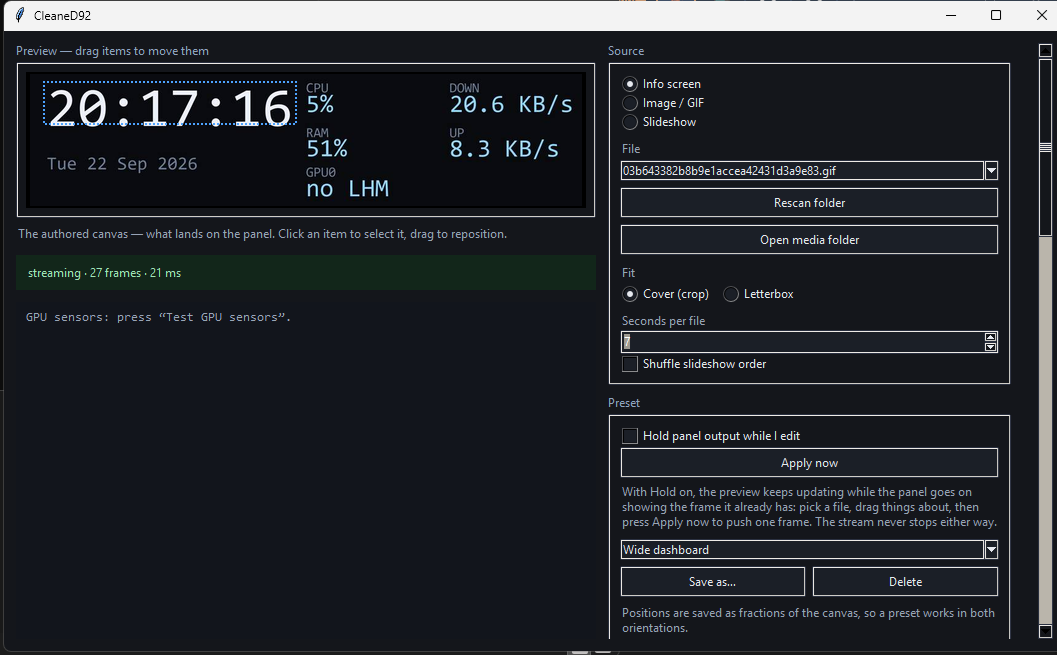
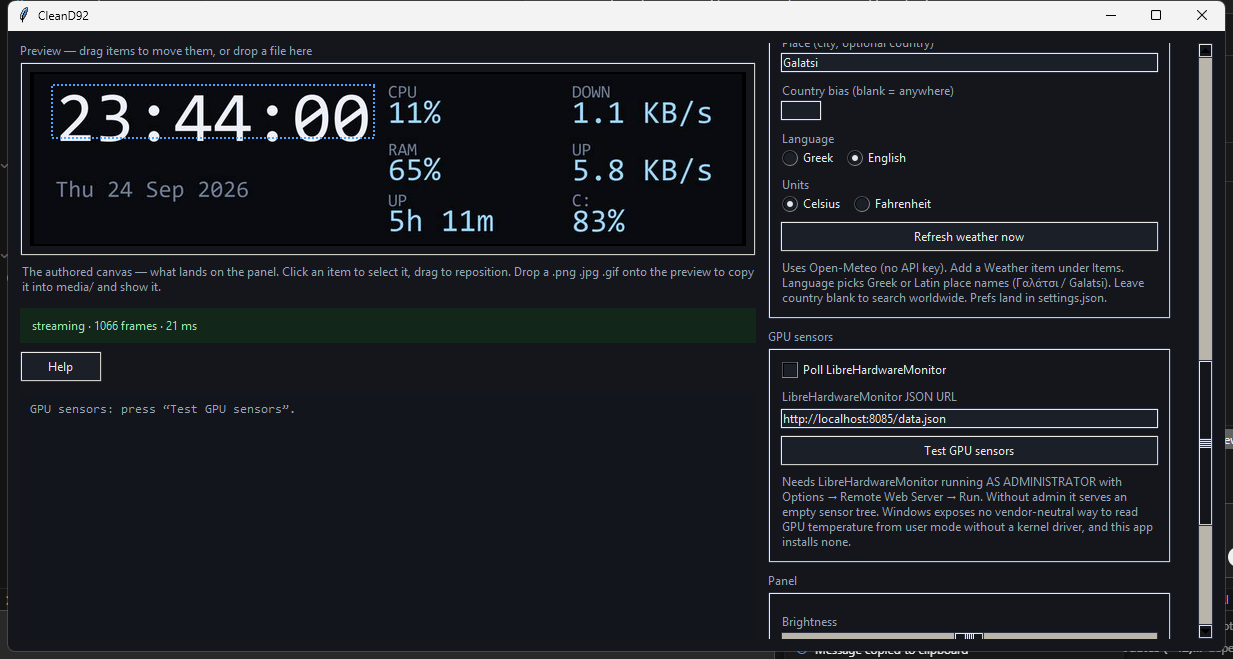
Tune LHM matching from a live sensor tree and refresh the docs.
Prefer GPU Core and CPU Package, keep distinct disk labels, document weather and world clocks, and replace the README screenshot.

Changed region(s): [[0.0, 0.0, 1.0, 1.0], [0.0, 0.6107, 0.2498, 0.6412], [0.5307, 0.9771, 0.5932, 1.0]]

diff --git a/d92_panel.py b/d92_panel.py
@@ -49,6 +49,7 @@ import io
 import json
 import os
 import random
+import re
 import sys
 import threading
 import time
@@ -558,6 +559,21 @@ def shorten(name, limit=16):
     return name[:limit].strip()
 
 
+def shorten_disk(name, limit=14):
+    """Keep model tokens that distinguish drives (980 PRO vs 840 EVO).
+
+    Verified against a live LHM tree where four Samsungs otherwise all
+    collapsed to 'Samsung SS' under the generic 10-char shorten."""
+    text = name or ""
+    for prefix in ("Samsung SSD ", "Samsung HDD ", "Samsung ",
+                   "WDC ", "WD ", "Crucial ", "Kingston ", "NVMe "):
+        if text.startswith(prefix):
+            text = text[len(prefix):]
+            break
+    text = re.sub(r"\s+\d+\s*(TB|GB)\s*$", "", text, flags=re.IGNORECASE)
+    return text[:limit].strip() or shorten(name, limit)
+
+
 def fetch_lhm(url):
     """Read sensors from a running LibreHardwareMonitor. BLOCKING.
 
@@ -629,9 +645,15 @@ def fetch_lhm(url):
                 # Prefer GPU Core % over the many D3D engine counters LHM lists.
                 load = pick(found, "%", ("gpu core", "core load", "d3d 3d",
                                           "3d", "load", "usage"))
-                temp = pick(found, "\u00b0", ("hot spot", "hotspot", "gpu core",
-                                              "core", "edge", "temperature"),
-                            reject=("warning", "critical", "limit"))
+                # Core / edge before hot spot -- the strip's single GPU temp
+                # should match the conventional "GPU Temperature" people know
+                # from HWInfo; hotspot stays as fallback (AMD junction).
+                # Live tree (RX 7700 XT): GPU Core, GPU Memory, GPU Hot Spot.
+                # Intel UHD often has load only and no temperature leaves.
+                temp = pick(found, "\u00b0", ("gpu core", "core", "edge",
+                                              "hot spot", "hotspot",
+                                              "temperature"),
+                            reject=("warning", "critical", "limit", "memory"))
                 parts = []
                 if load is not None:
                     parts.append("%.0f%%" % load)
@@ -648,9 +670,11 @@ def fetch_lhm(url):
 
             elif category == "cpu" and not counts["cpu"]:
                 counts["cpu"] += 1
-                # Package first when present; Core Average / Max on modern
-                # Intel trees that only expose per-core and aggregates.
-                temp = pick(found, "\u00b0", ("tctl/tdie", "tctl", "package",
+                # Live Intel tree: CPU Package, Core Average, Core Max,
+                # per-P/E-core, plus Distance to TjMax (rejected). AMD uses
+                # Tctl/Tdie. Package / Tctl first when present.
+                temp = pick(found, "\u00b0", ("tctl/tdie", "tctl", "tdie",
+                                               "cpu package", "package",
                                                "core average", "core max",
                                                "cpu", "temperature"),
                             reject=("warning", "critical", "limit", "distance"))
@@ -660,13 +684,14 @@ def fetch_lhm(url):
             elif category == "storage":
                 index = counts["storage"]
                 counts["storage"] += 1
-                # Composite / plain Temperature before Warning/Critical thresholds.
+                # Live NVMe: Composite Temperature + Temperature #N +
+                # Warning/Critical thresholds. SATA often just Temperature.
                 temp = pick(found, "\u00b0", ("composite temperature",
                                                "temperature",),
                             reject=("warning", "critical", "limit"))
                 if temp is not None:
                     values["disk%d_temp" % index] = (
-                        "%s TEMP" % shorten(name, 10), "%.0f\u00b0C" % temp)
+                        "%s TEMP" % shorten_disk(name), "%.0f\u00b0C" % temp)
             return
         for child in children:
             walk(child, depth + 1)

diff --git a/AGENTS.md b/AGENTS.md
@@ -251,6 +251,11 @@ maintenance on working software. Prefer small, reversible edits; run
 3. Adjust the keyword matching in `fetch_lhm` against that real tree, for
    CPU package temperature, per-GPU load and temperature, and per-drive
    temperature.
+**Done (this machine):** live tree against i7-12700K + RX 7700 XT + UHD 770
++ four drives. `cpu_temp` ← CPU Package; `gpu0` ← GPU Core load/temp (hot
+spot fallback); Intel iGPU has load only (no temp leaves in LHM); disks use
+Composite/Temperature with distinct model labels. Matching comments in
+`fetch_lhm` name the live sensor strings.
 **Done when:** every readout the layout offers shows a real number.
 **Stop and report.**
 
@@ -258,6 +263,9 @@ maintenance on working software. Prefer small, reversible edits; run
 Nobody who downloads this knows what to do first. Consider: a default preset
 chosen by orientation, a short "no panel found" screen that explains the
 likely causes, and a one-line status when the media folder is empty.
+**Done:** tip to the live Info screen, Vertical swaps in Tall clock only,
+Help/README cover weather and world clocks, empty-media coaching stays in the
+render status line.
 **Done when:** a new user with an empty folder gets something sensible on the
 panel within a minute. **Stop and report.**
 
@@ -266,8 +274,10 @@ Long-run soak with the slideshow, watch `last_ms` and memory. Confirm the
 dropout path reports cleanly rather than hanging. Confirm Hold plus Apply
 behaves across mode changes.
 Harness: `python tools/soak_slideshow.py --minutes 60 --slide 3` (fake
-panel, no HID). A full hour run was paused mid-way — resume when there is
-time; do not treat Phase 3 as done until that soak finishes clean.
+panel, no HID).
+Partial: 20 min PASS — 3427 frames, last_ms min/med/max 11/25/51 (none
+>100), RSS 35.8→40.9 MB (delta +5.1, max 46), Hold/Apply/mode flip OK.
+Full hour still outstanding before calling Phase 3 done.
 **Done when:** an hour of slideshow shows flat memory and no stalls over
 100 ms. **Stop and report.**
 

diff --git a/README.md b/README.md
@@ -7,7 +7,7 @@ firmware identifies itself as `HOTSPOTEKUSB HID DEMO`, USB ID `5548:1011`.
 CleanD92 talks to the panel over its own HID protocol and **installs nothing
 on your system**: no driver, no service, no administrator rights.
 
-![The panel showing a dashboard over a background image](docs/screenshot.png)
+![CleanD92 window: live preview on the left, weather and GPU sensor settings below](docs/screenshot.png)
 
 ## Why this exists
 
@@ -35,6 +35,10 @@ If your PC is rebooting in a loop, see
 - **Info screen** — clock, date, CPU load and temperature, RAM as a percentage
   or in gigabytes, per-drive disk usage and temperature, network up/down
   speed, uptime, and GPU load and temperature for every card.
+- **Weather** — current conditions and a multi-day forecast from Open-Meteo
+  (no API key). Sunrise and sunset sit under the current block; at night the
+  clear-sky icon follows the real moon phase.
+- **World clocks** — another city's local time and offset from yours.
 - **Image / GIF** — a single still or animated file.
 - **Slideshow** — every file in the `media` folder in turn, with a dwell time
   and optional shuffle. Animated GIFs keep animating during their slot.
@@ -191,7 +195,10 @@ this app makes for you.
 The test button lists every sensor source it found and every piece of hardware
 LibreHardwareMonitor reports, which makes a mismatch easy to spot. Each GPU
 appears separately, so a machine with a discrete card and an integrated one
-gets a readout for both.
+gets a readout for both. Matching prefers **CPU Package** (or AMD Tctl),
+**GPU Core** temperature (hot spot only as fallback), and each drive's
+composite or plain temperature under a short model label. Some integrated
+GPUs expose load in LHM but no temperature leaves — those show load only.
 
 | Message | Meaning |
 |---|---|
